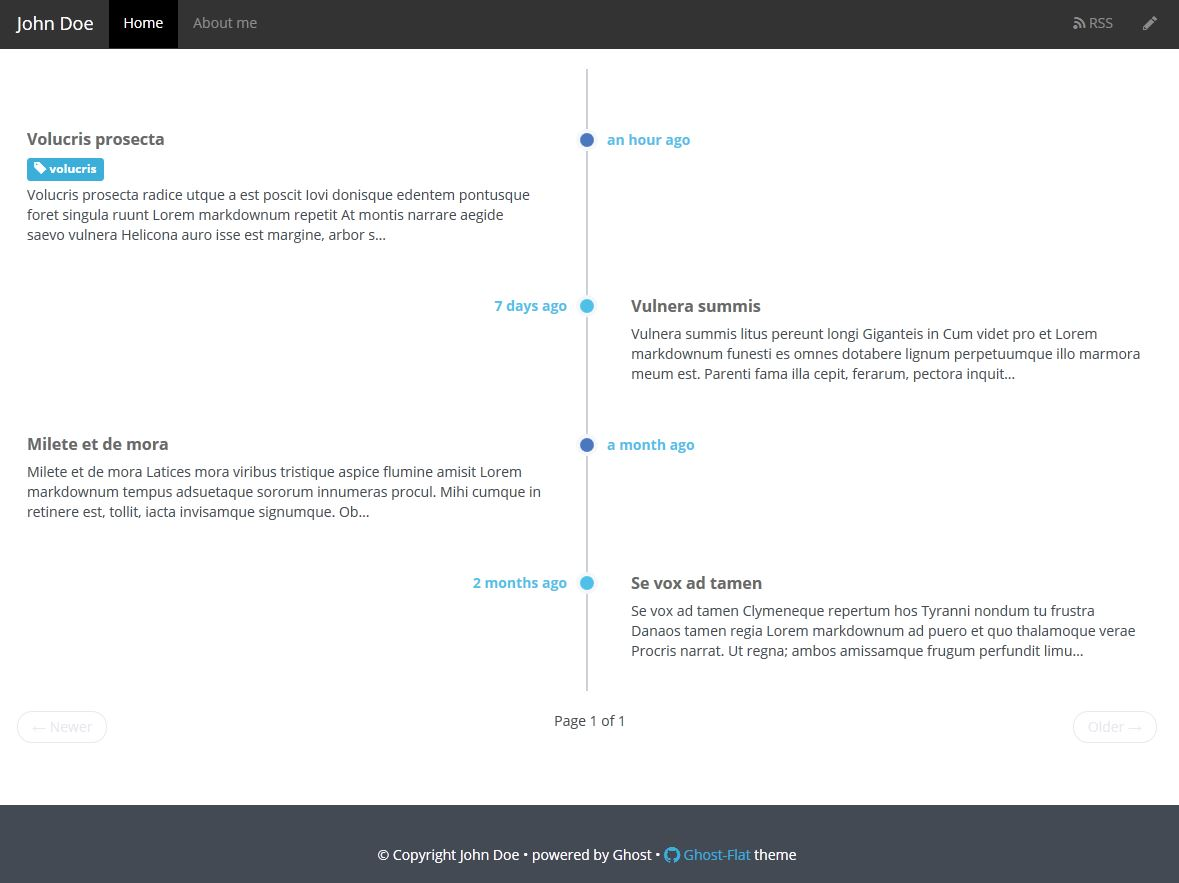
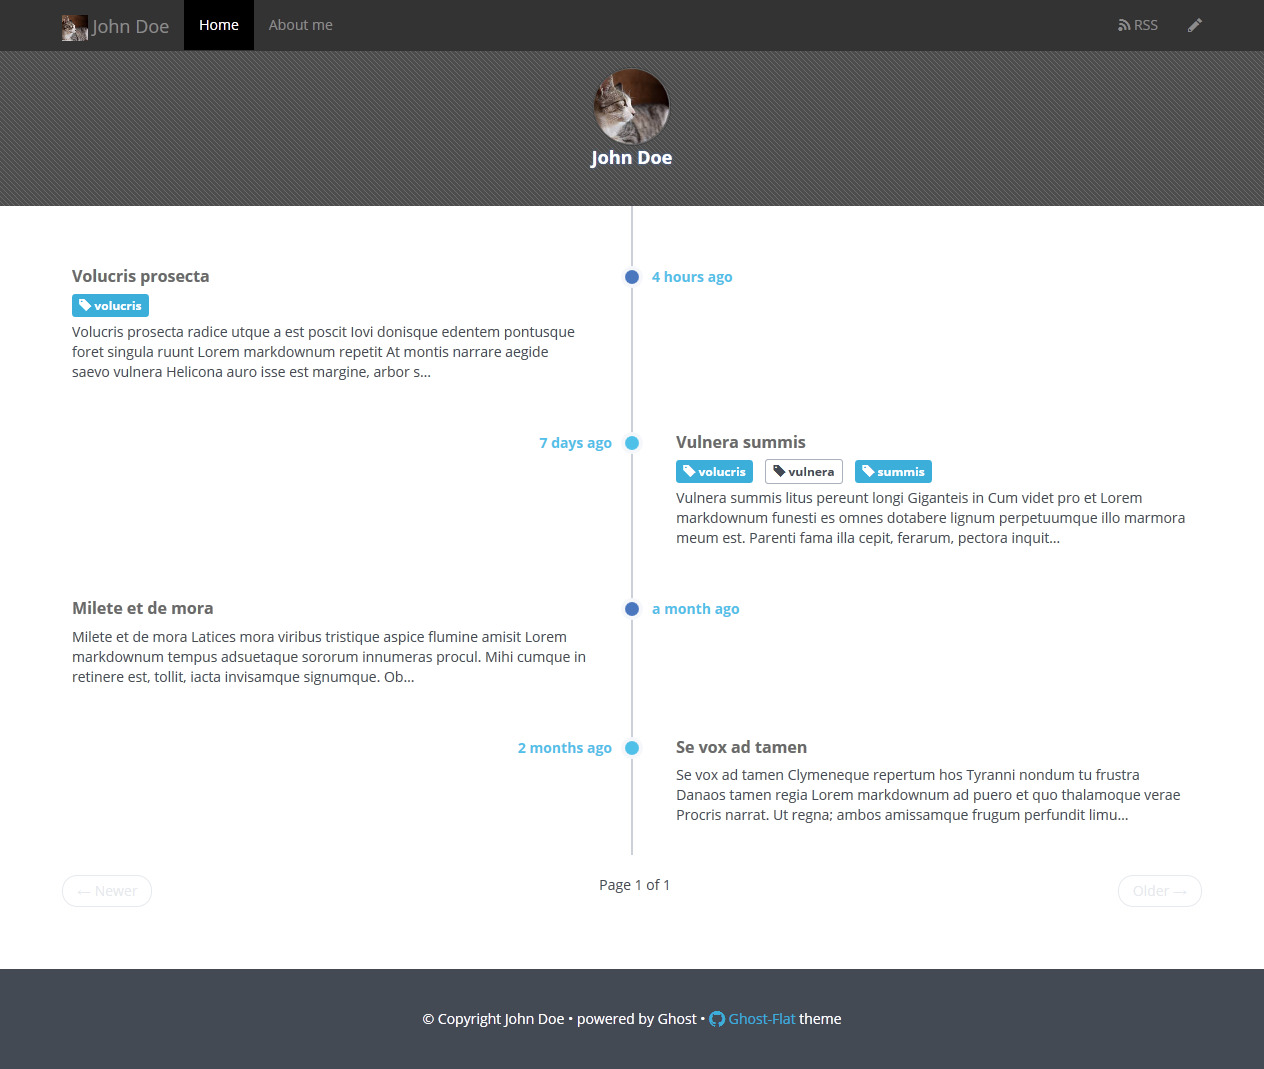
Updated screenshots with cover images on header or no-cover styled header

diff --git a/README.md b/README.md
@@ -5,15 +5,23 @@ It's based on a modified version of [Bootflat](http://bootflat.github.io/).
 
 Its main feature is the timeline, which is responsive.
 
-Main page:
+Main design :
 
-![Main page](ghost-flat-main.jpg)
+![Main design](ghost-flat-main.jpg)
 
-Post and Static page design:
+The whole design is also responsive :
 
-![Post page](ghost-flat-post-or-page.jpg)
+![Main responsive design](ghost-flat-main-responsive.jpg)
 
-The tag page:
+Post design:
+
+![Post design](ghost-flat-post.jpg)
+
+Page design:
+
+![Page design](ghost-flat-page.jpg)
+
+The tag design:
 
 ![Tag page](ghost-flat-tag.jpg)
 
